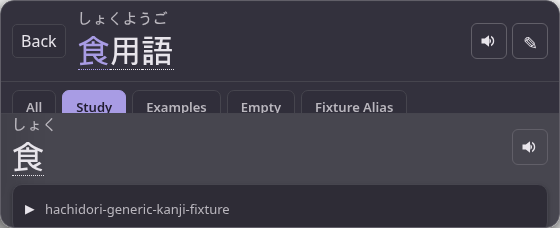
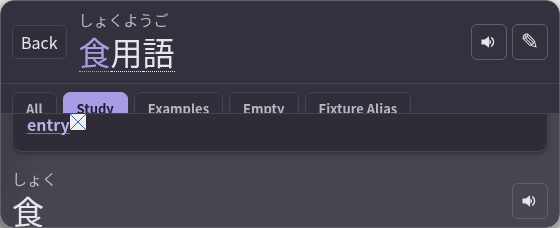
feat: show dictionary cards open and leave collapsing to dictionaries (#115) (#117)
#112 wrapped every dictionary card in a closed `details` behind a large solid
`▶`/`▼` marker, so every lookup needed a click per dictionary before a
definition could be read, and dictionaries that already ship their own
disclosures (Bee's Ultimate Grammar Dictionary's per-source blocks) needed two.

Follow Yomitan instead. A dictionary card is a plain `div` with a
non-interactive title, and its definitions are always shown. Only
structured-content `details` a dictionary authors collapse: closed unless the
entry sets `open: true`, and styled as Yomitan styles `gloss-sc-details` /
`gloss-sc-summary` -- a 1.4em indent with the native marker hanging outside.
A dictionary's own scoped styles still override this.

Back restores every remaining disclosure's saved state again. The live
display-name refresh now targets the card title instead of `details > summary`,
which would otherwise have stopped renaming cards.

The test harness no longer auto-opens cards. The collapsed-marker e2e check is
replaced by one asserting cards render open with no disclosure control, and
the smoke checks assert open cards and exact restoration of authored details.

node test/extension-smoke.mjs -- 476/477, the failure (managed update settings)
  also fails on untouched main
node test/chrome-e2e.mjs -- 192/193, the failure is the pre-existing
  deinflection Note-button assertion noted in #112

diff --git a/extension/render/popup.js b/extension/render/popup.js
@@ -2891,14 +2891,7 @@
           const details = [...popup.querySelectorAll("details")];
           if (details.length === restoreDisclosures.length
               && details.every((node, index) => node.className === restoreDisclosures[index].className)) {
-            // Outer dictionary cards are deliberately not restored: Back returns
-            // to the collapsed view every fresh lookup starts from. Everything
-            // the dictionary authored inside a card keeps its saved state.
-            details.forEach((node, index) => {
-              node.open = node.classList.contains("gsm-hoshidicts-glossary-card")
-                ? false
-                : restoreDisclosures[index].open;
-            });
+            details.forEach((node, index) => { node.open = restoreDisclosures[index].open; });
             // Native toggle delivery is deferred. Populate restored lazy IPA
             // now so the first restored layout includes all its text.
             for (const { metadata } of entryMetadata) metadata.fillOpenIpa();
@@ -3013,16 +3006,15 @@
         const glossaryGrid = documentRef.createElement("div");
         glossaryGrid.className = "gsm-hoshidicts-glossary-grid";
         for (const [dictionary, glossaries] of groupedGlossaries) {
-          const details = documentRef.createElement("details");
-          details.className = "gsm-hoshidicts-glossary-card";
-          // Collapsed on purpose. A dictionary card only reads as expandable
-          // when it starts closed behind its own visible disclosure marker.
-          details.addEventListener("toggle", scheduleMasonry);
-          const summary = documentRef.createElement("summary");
-          summary.textContent = dictionaryDisplayNames?.get(dictionary) || dictionary;
-          summary.title = dictionary;
-          summary.setAttribute("aria-label", dictionary);
-          details.appendChild(summary);
+          // Always open, as in Yomitan: only disclosures a dictionary authors
+          // inside its own content collapse.
+          const card = documentRef.createElement("div");
+          card.className = "gsm-hoshidicts-glossary-card";
+          const title = documentRef.createElement("div");
+          title.className = "gsm-hoshidicts-glossary-card-title";
+          title.textContent = dictionaryDisplayNames?.get(dictionary) || dictionary;
+          title.title = dictionary;
+          card.appendChild(title);
           const definitions = documentRef.createElement("ol");
           definitions.className = "gsm-hoshidicts-definitions";
           if (glossaries.length === 1) {
@@ -3075,8 +3067,8 @@
             definition.appendChild(content);
             definitions.appendChild(definition);
           }
-          details.appendChild(definitions);
-          glossaryGrid.appendChild(details);
+          card.appendChild(definitions);
+          glossaryGrid.appendChild(card);
         }
         entry.appendChild(glossaryGrid);
         // Fixed-width masonry cards cannot signal a change to their container.
@@ -3228,8 +3220,8 @@
                 results[index], renderContext, summaryMedia) || changed;
             }
             if (labelsChanged) {
-              for (const summary of entry.querySelectorAll(":scope > .gsm-hoshidicts-glossary-grid > details > summary")) {
-                changed = updateLabel(summary, names.get(summary.title) || summary.title) || changed;
+              for (const title of entry.querySelectorAll(":scope > .gsm-hoshidicts-glossary-grid > .gsm-hoshidicts-glossary-card > .gsm-hoshidicts-glossary-card-title")) {
+                changed = updateLabel(title, names.get(title.title) || title.title) || changed;
               }
             }
           });

diff --git a/extension/render/reader.css b/extension/render/reader.css
@@ -2324,28 +2324,10 @@ html[data-hoshidicts-theme="girlypop"],
   box-shadow: 0 2px 5px rgba(0, 0, 0, 0.3);
 }
 
-.gsm-hoshidicts-glossary-card > summary {
+.gsm-hoshidicts-glossary-card-title {
   color: var(--text-color-light1);
   font-size: 13px;
-  cursor: pointer;
-  list-style: none;
   user-select: none;
-}
-
-.gsm-hoshidicts-glossary-card > summary::-webkit-details-marker {
-  display: none;
-}
-
-.gsm-hoshidicts-glossary-card > summary::before {
-  content: "▶";
-  display: inline-block;
-  width: 20px;
-  color: var(--text-color);
-  font-size: 16px;
-}
-
-.gsm-hoshidicts-glossary-card[open] > summary::before {
-  content: "▼";
 }
 
 .gsm-hoshidicts-definitions {
@@ -2392,12 +2374,16 @@ html[data-hoshidicts-theme="girlypop"],
   padding-left: 20px;
 }
 
+/* Dictionary-authored disclosures, styled as Yomitan does: the native marker
+ * hangs in the left gutter. A dictionary's own scoped styles still win. */
 .gsm-hoshidicts-glossary-content details {
   margin: 3px 0;
+  padding-left: 1.4em;
 }
 
 .gsm-hoshidicts-glossary-content summary {
   cursor: pointer;
+  list-style-position: outside;
 }
 
 .gsm-hoshidicts-structured-link {

diff --git a/docs/architecture.md b/docs/architecture.md
@@ -962,24 +962,19 @@ once against the new state. Startup uses the same ordering.
 
 ![Compact summary with its complete source definitions](assets/compact-definition-summary.png)
 
-### Dictionary card disclosure
+### Dictionary cards
 
-Every outer dictionary card is a native `details` that renders closed. Its
-`summary` carries the dictionary's display name and a `::before` marker: a solid
-`▶` closed and `▼` open, 16px in a 20px slot, at full opacity in the theme
-foreground rather than the muted title colour, so a collapsed card reads as
-expandable instead of as a heading. The native marker stays suppressed and the
-element keeps `display: list-item`, so mouse, Enter and Space activation, focus
-and accessibility come from `details`/`summary` itself; the renderer adds no
-keyboard handling, animation or extra header decoration.
+Dictionary cards follow Yomitan: each is a plain box whose title shows the
+dictionary's display name, and its definitions are always shown. The card is not
+a disclosure and has no marker, so there is nothing to open before a definition
+can be read.
 
-Every fresh lookup and every dictionary-tab projection starts collapsed. This is
-not a stored preference: there is no state to write, and Back deliberately
-returns to the same collapsed view rather than reopening what was expanded.
-Disclosures a dictionary authored inside a card body are untouched by all of
-this and keep their own state.
-
-![A collapsed dictionary card behind its solid disclosure marker](assets/collapsed-dictionary-card.png)
+Collapsing belongs to the dictionary. A structured-content `details`/`summary`
+renders natively, closed unless the entry sets `open: true`, and is styled as in
+Yomitan: the `details` is indented 1.4em and the `summary` keeps the browser's
+own marker with `list-style-position: outside`, so the thin triangle hangs in the
+gutter. A dictionary's own scoped `styles.css` can restyle it; Bee's Ultimate
+Grammar Dictionary draws its own chevron on its per-source blocks this way.
 
 ### Deinflection explanation
 
@@ -1173,9 +1168,7 @@ Back stores the exact term request and its current tab, expanded-results flag,
 scroll position and disclosure states as data, not detached DOM or renderer
 closures. The renderer-owned capture accessor follows local tab changes and is
 cleared when the view is retired. Matching content and tab membership restore
-open deinflection, structured and IPA disclosures, while the outer glossary cards
-are deliberately reset to closed: Back returns to the collapsed view a fresh
-lookup starts from.
+open deinflection, structured and IPA disclosures.
 Lazy IPA is populated before the restored layout. Changed content cannot inherit
 unrelated disclosure states; a changed generation replays the exact request.
 
@@ -1193,7 +1186,7 @@ This intentionally extends the pinned GSM PR #549 restoration: its saved term
 view does not retain expansion/scroll, and uses the current kanji tab. Issue #9
 requires the prior term view's exact state instead.
 
-![Back restores an expanded Study view with its dictionary cards collapsed](assets/kanji-back.png)
+![Back restores an expanded Study view](assets/kanji-back.png)
 
 ## Dictionary presentation boundary
 

diff --git a/test/README.md b/test/README.md
@@ -954,20 +954,11 @@ covering them; opening Note keeps its focused input visible. The viewport and
 focus are restored before the remaining hover tests.
 `HACHIDORI_DEINFLECTION_SCREENSHOT` captures the expanded desktop popup.
 
-One assertion covers the outer dictionary cards on a popup no other check has
-touched. It reads the computed `::before` marker inside the closed shadow root:
-a solid `▶` closed and `▼` open, `inline-block` at 20px wide, 16px, opacity 1,
-in the popup's own foreground colour rather than the muted summary colour. Every
-card of that render must start closed with no laid-out body, keep
-`display: list-item` and no native marker, and open and close again through a
-real mouse click on the marker and through Enter and Space on the focused
-summary. Because a collapsed card is the default, every `popupReader` read opens
-the cards it finds — a reader reaching a definition has to — so the geometry,
-focus, hover and selection assertions elsewhere measure them expanded. This check
-and the Back check read through `popupReader(..., { autoExpandCards: false })`
-instead, which is the only way the collapsed render can be observed at all.
-`HACHIDORI_COLLAPSED_CARD_SCREENSHOT` captures that untouched popup and
-`HACHIDORI_KANJI_BACK_SCREENSHOT` the recollapsed view Back restores.
+One assertion covers the dictionary cards on a popup rendered from a fresh hover.
+Every card must be a plain `div` outside any `details`, with a non-interactive
+title (no pointer cursor, no `::before` marker) carrying the display name and
+dictionary, a laid-out definition body, and the same geometry after a real mouse
+click on the title.
 
 The exported `nestedLinksFixture()` supplies three linked term rows and one
 shared deterministic PNG without changing the ordinary fixture counts. The
@@ -985,8 +976,8 @@ cover All, ordered nonempty groups and an ungrouped favourite from the complete
 native result; ordinary contributors and grouped favourites receive no duplicate
 dictionary tabs. Warmed tab changes must issue no lookup, media or style
 requests. Linked-child, clicked-kanji and Back retain their semantic selection.
-Back recollapses an expanded dictionary card while restoring the expanded,
-scrolled child's prior tab, highlight and toolbar, without another native lookup;
+Back restores an expanded, scrolled child with its prior tab, highlight and
+toolbar and identical dictionary cards, without another native lookup;
 its next Back still closes the child. Extension checks cover native-source fallback and
 terminal misses, cached versus changed-generation restoration, lazy IPA and
 structured disclosures, and cancellation by newer projections or deliberate
